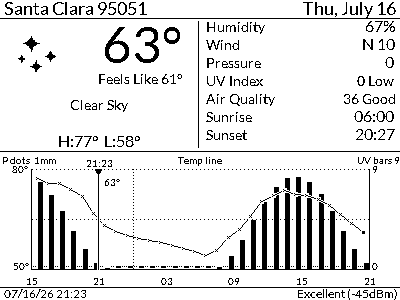
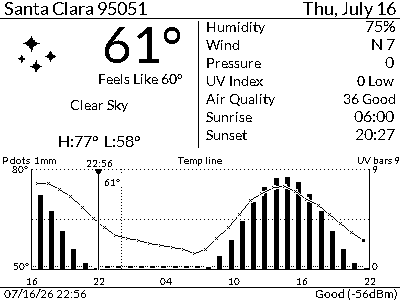
fix: remove stray divider crossing the stats column
drawGrid() drew a fixed full-width line at MAIN_BOTTOM (y=151), but the stats
rows are spaced independently of that constant, so the line cut between the
Sunrise and Sunset rows on builds with the wider row spacing (visible in the
device photo). The chart region has its own frame, so the divider adds nothing
— drop it. Refresh the README screenshot from the fixed device.

diff --git a/platformio/src/renderer_ssd1683.cpp b/platformio/src/renderer_ssd1683.cpp
@@ -121,7 +121,10 @@ static void drawStatRow(int y, const String &label, const String &value,
 void drawGrid()
 {
   fb.drawFastHLine(0, HEADER_H, DISP_WIDTH, INK);
-  fb.drawFastHLine(0, MAIN_BOTTOM, DISP_WIDTH, INK);
+  // No divider between the summary and the chart: the stats rows are spaced
+  // independently of MAIN_BOTTOM, so a fixed full-width line here collided
+  // with them (cutting between Sunrise and Sunset), and the chart below has
+  // its own frame anyway.
   fb.drawFastHLine(0, STATUS_TOP, DISP_WIDTH, INK);
   fb.drawFastVLine(COL_DIVIDER_X, HEADER_H + 3, MAIN_BOTTOM - HEADER_H - 6, INK);
 }